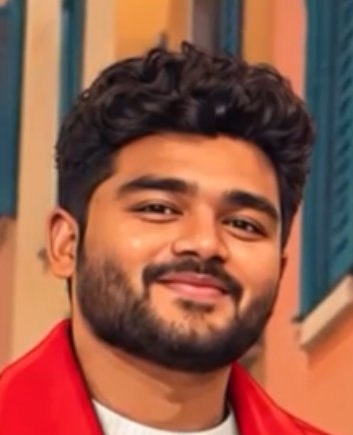
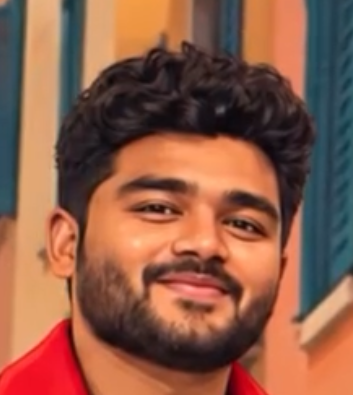
Fix frame and gallery

diff --git a/index.html b/index.html
@@ -464,7 +464,7 @@
       left: 3%;
       width: 94%;
       bottom: 9%;
-      aspect-ratio: 1449/959;
+      aspect-ratio: 1536/1024;
       isolation: isolate;
       opacity: 1;
       cursor: pointer
@@ -1827,9 +1827,9 @@
     <div class="sc" id="s3">
       <div id="hall"></div>
       <div id="cp">
-        <div class="sl3" style="left:30.23%;top:8.45%;width:10.70%;height:16.68%"><span>Hariharan</span><img alt=""
+        <div class="sl3" style="left:33.46%;top:5.18%;width:10.61%;height:16.70%"><span>Hariharan</span><img alt=""
             src="assets/groom.png" onerror="this.remove()"></div>
-        <div class="sl3" style="left:53.49%;top:11.05%;width:10.42%;height:16.27%"><span>Bhavashree</span><img alt=""
+        <div class="sl3" style="left:54.56%;top:8.30%;width:10.35%;height:16.70%"><span>Bhavashree</span><img alt=""
             src="assets/bride.png" onerror="this.remove()"></div><img alt="" src="assets/couple.webp">
         <div id="sf">
           <div class="rip">Tap</div><b>Tap to continue</b>
